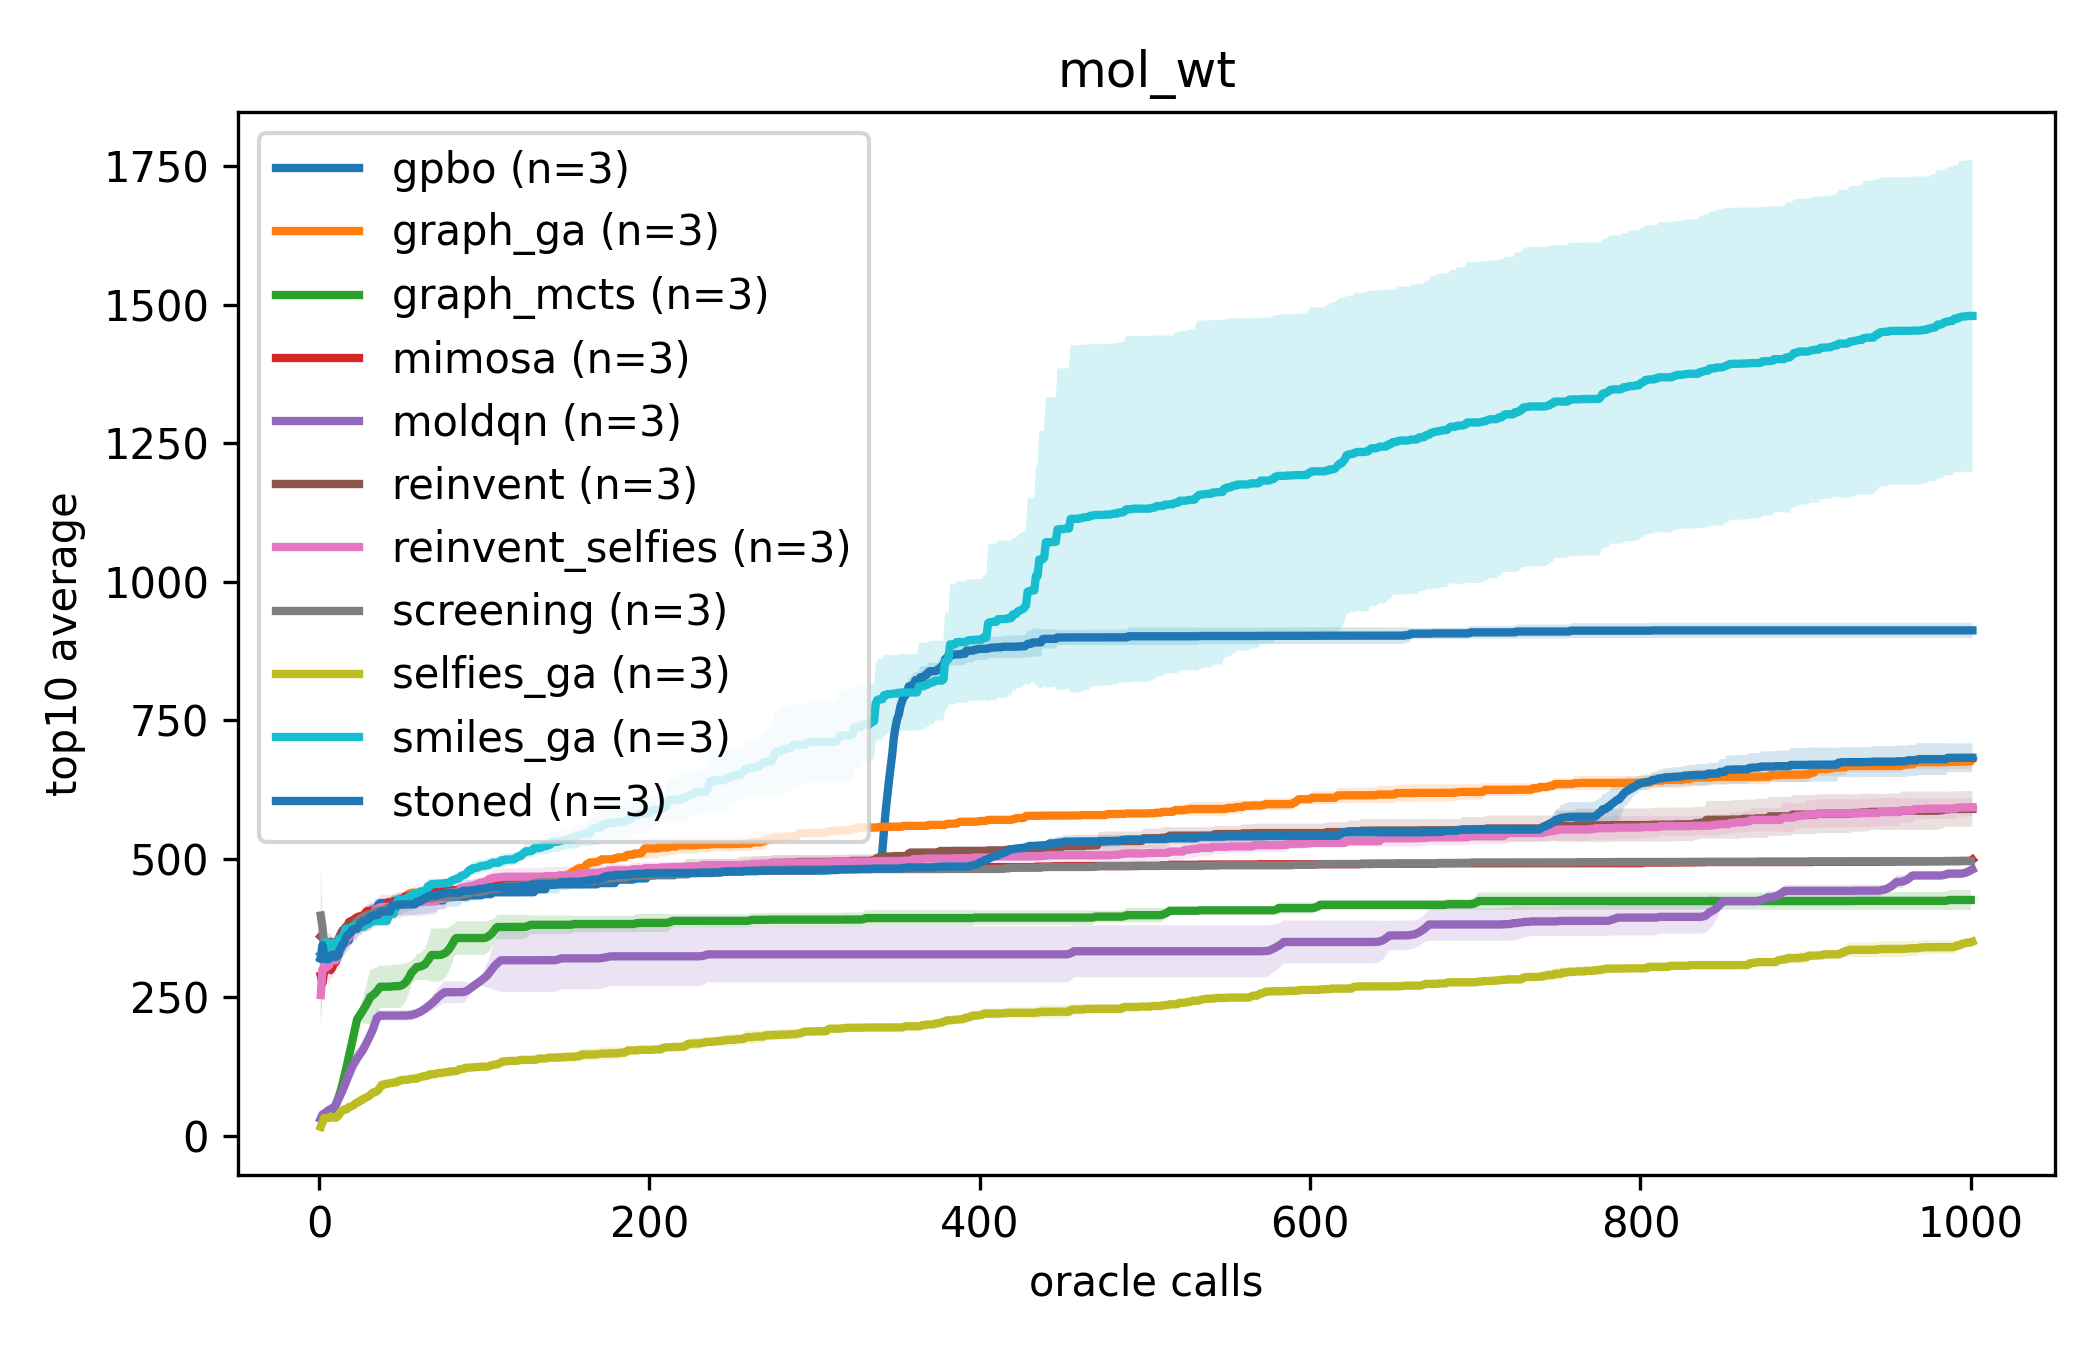
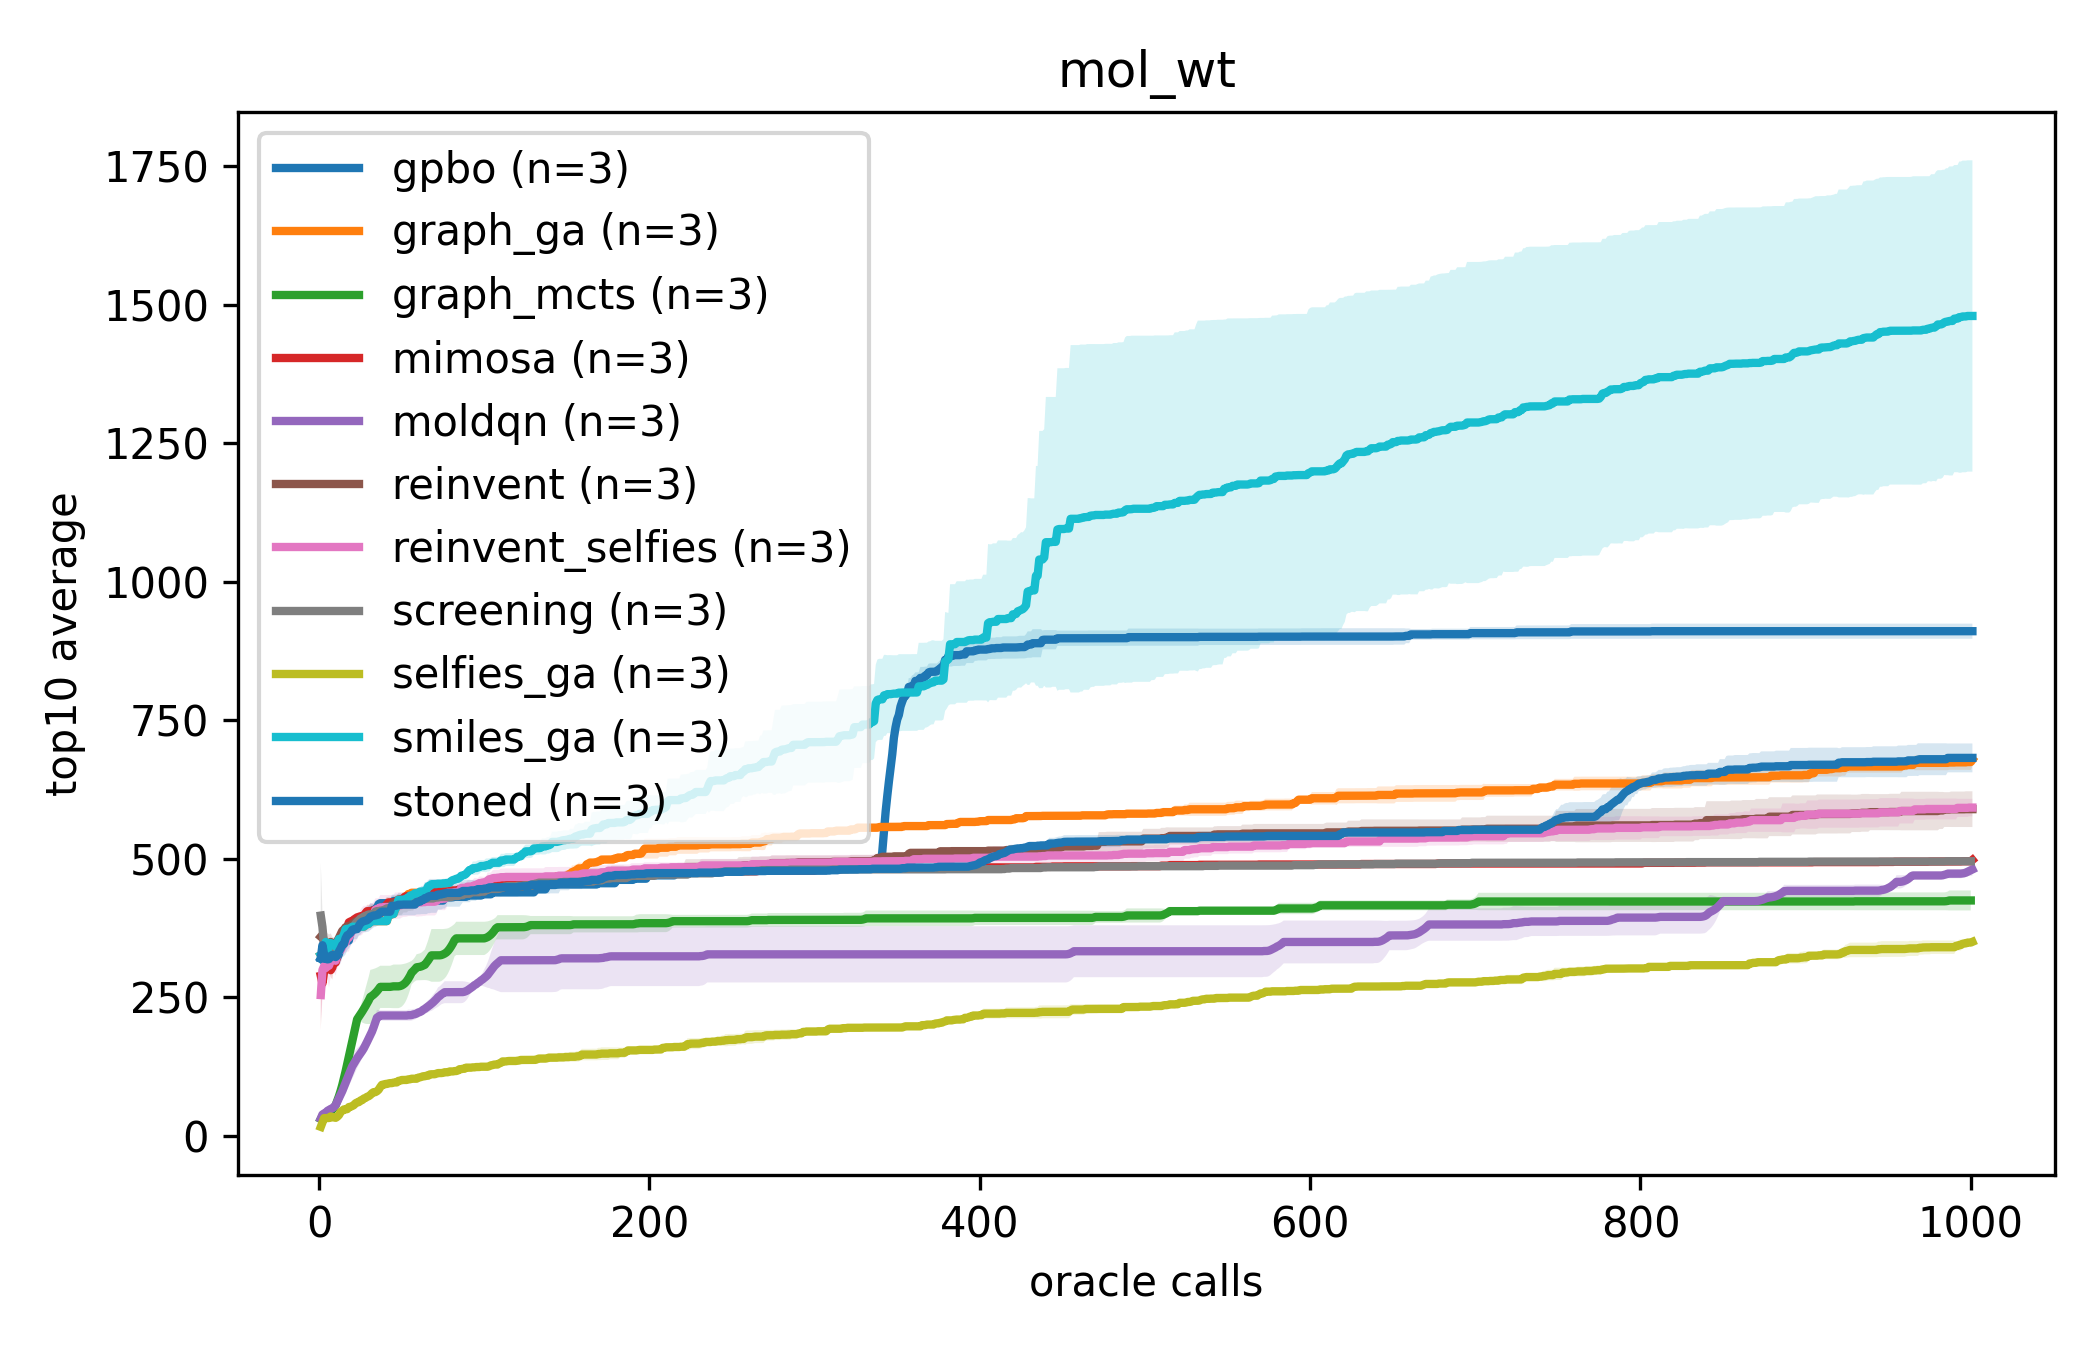
Use evaluator-backed plots as canonical

Changed region(s): [[0.619, 0.4667, 0.681, 0.4978], [0.5571, 0.6222, 0.619, 0.6533]]

diff --git a/summary_2026-06-02.md b/summary_2026-06-02.md
@@ -31,12 +31,13 @@ SAScore note: in this environment, `evaluator.tools.calculate_sascore` returns
 `None` because the RDKit SA scorer is not importable. The wrapper first tries
 the evaluator call, then falls back to the MolOpt `fpscores.pkl` implementation.
 
-We also ran a part-2 evaluator-backed rescoring pass. It preserved the original
+We also ran an evaluator-backed rescoring pass. It preserved the original
 generated molecules and oracle-call numbers, but recomputed scores with the
-evaluator-backed wrappers. The full 10K QED/LogP/SAScore plots did not change.
-In the medium matrix, only molecular weight shifted meaningfully because the
-evaluator uses exact molecular weight while the first wrapper used average
-molecular weight.
+evaluator-backed wrappers. The canonical plots in `plots/full` and
+`plots/medium` now use these evaluator-backed scores. The full 10K
+QED/LogP/SAScore plots did not change. In the medium matrix, only molecular
+weight shifted meaningfully because the evaluator uses exact molecular weight
+while the first wrapper used average molecular weight.
 
 ## 2. Why We Benchmarked
 
@@ -220,7 +221,6 @@ model ensemble.
 - Full 10K plots: `plots/full/`
 - Medium cheap plots: `plots/medium/`
 - Small ADMET plots: `plots/small_admet/`
-- Evaluator-backed rescoring check: `plots/part2_evaluator/` and
-  `tables/part2_evaluator/`
+- Evaluator-backed rescoring audit tables: `tables/part2_evaluator/`
 - Full 10K metrics: `tables/metrics_full_qed_logp_sascore.csv`
 - Small ADMET metrics: `tables/small_admet/metrics_small_admet_only.csv`

diff --git a/RESULTS_INDEX.md b/RESULTS_INDEX.md
@@ -11,17 +11,14 @@ MolOpt result tree. The most useful entry points are below.
 
 ## Plots
 
-- `plots/full/` - 10K pilot plots for `qed`, `logp`, and `sascore`
+- `plots/full/` - evaluator-backed 10K pilot plots for `qed`, `logp`, and `sascore`
   - Each oracle has `top1`, `top10`, and `top100` views.
   - `top1` asks whether the optimizer can find one standout molecule.
   - `top10` asks whether it can produce a robust shortlist.
   - `top100` asks whether it moves the broader candidate pool.
-- `plots/medium/` - 1K cheap-oracle matrix plots for the wider algorithm set.
+- `plots/medium/` - evaluator-backed 1K cheap-oracle matrix plots for the wider algorithm set.
 - `plots/small_admet/` - completed 100-call ADMET/toxicity scout plots for
   hERG, DILI, ClinTox, mutagenicity, and carcinogenicity.
-- `plots/part2_evaluator/` - separate evaluator-backed rescoring plots. These
-  preserve the original generated molecules and oracle-call order, but recompute
-  scores with evaluator-backed wrappers.
 
 ## Tables
 
@@ -31,7 +28,7 @@ MolOpt result tree. The most useful entry points are below.
   the mean top1 curve reaches each target threshold.
 - `tables/full_qed_logp_sascore_top10_thresholds.csv` - same for top10.
 - `tables/full_qed_logp_sascore_top100_thresholds.csv` - same for top100.
-- `tables/part2_evaluator/` - evaluator-backed rescoring metrics and
+- `tables/part2_evaluator/` - evaluator-backed rescoring audit metrics and
   original-vs-part2 comparison tables.
 - `tables/metrics_medium.csv` - medium 1K cheap-oracle metrics.
 - `tables/small_admet/` - tox-only metrics and threshold tables for the

diff --git a/plots/README.md b/plots/README.md
@@ -4,6 +4,8 @@
 
 Folder: `plots/full/`
 
+These are the evaluator-backed plots used for the current benchmark summary.
+
 Oracles:
 
 - `qed`
@@ -20,6 +22,6 @@ Each oracle has:
 
 Folder: `plots/medium/`
 
-These plots cover the wider cheap-oracle benchmark matrix. Use them to compare
-algorithm behavior across more oracle classes, but treat the 10K full plots as
-the stronger paper-style comparison for the selected oracles.
+These evaluator-backed plots cover the wider cheap-oracle benchmark matrix. Use
+them to compare algorithm behavior across more oracle classes, but treat the
+10K full plots as the stronger paper-style comparison for the selected oracles.